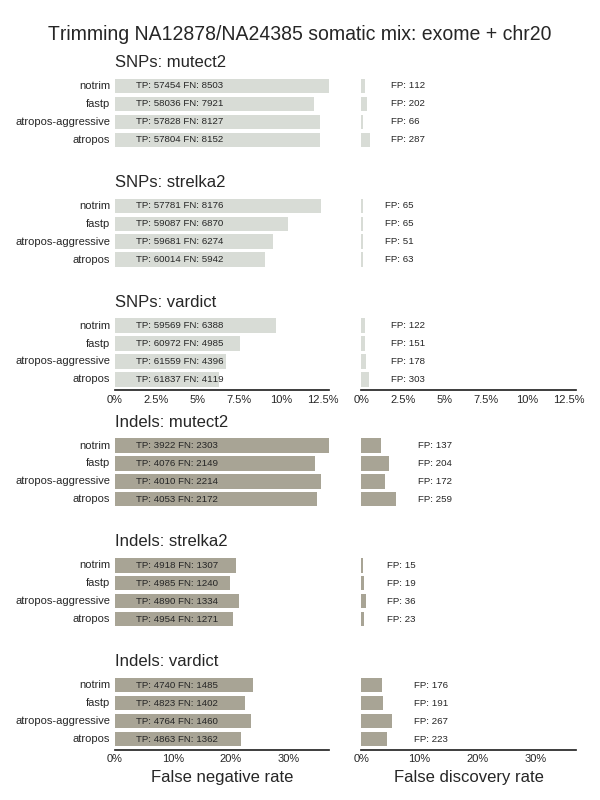
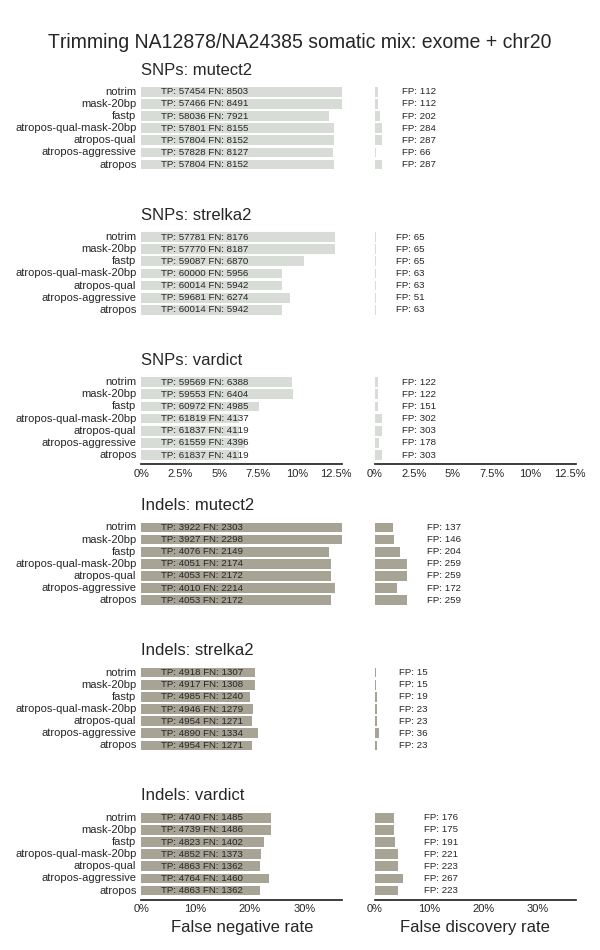
somatic trim: results for qual only and polyX mask
qual only trimming provides majority of speed and quality benefits

diff --git a/somatic_trim/README.md b/somatic_trim/README.md
@@ -8,37 +8,42 @@ of 30% NA12878 (tumor) and 70% NA24385 (germline) and a 30x normal genome of
 NA24385. Unique NA12878 variants are somatic variations at 15% and 30%.
 
 This sample has slow runtimes with many callers, potentially due to read quality
-issues. Inspired by [DNAnexus' work examining problematic reads with Readshift](https://blog.dnanexus.com/2018-01-16-evaluating-the-performance-of-ngs-pipelines-on-noisy-wgs-data/)
+issues. Inspired by [DNAnexus' work examining problematic reads with
+Readshift](https://blog.dnanexus.com/2018-01-16-evaluating-the-performance-of-ngs-pipelines-on-noisy-wgs-data/)
 we looked at the impact of 3' quality trimming on runtimes. We also added polyG
-trimming to avoid G errors at the end of NovaSeq reads, and polyX trimming to
-remove other low complexity regions that could contribute to slow alignment and
-variant calling times.
+trimming to avoid G errors at the end of NovaSeq reads in other datasets, and
+polyX trimming to remove other low complexity regions that could contribute to
+slow alignment and variant calling times.
 
-Two different trimming methods [atropos](https://github.com/jdidion/atropos)
-and [fastp](https://github.com/OpenGene/fastp) had different impacts on read
-calls and runtimes. Both callers helped improve sensitivity of SNP and indel
-detection.  However, atropos improved runtimes for both alignment and variant
+Two different trimming methods [atropos](https://github.com/jdidion/atropos) and
+[fastp](https://github.com/OpenGene/fastp) had different impacts on read calls
+and runtimes. Both callers helped improve sensitivity of SNP and indel
+detection. However, atropos improved runtimes for both alignment and variant
 calling, while fastp runtimes were about identical to untrimmed. To explore
 further, we examined more aggressive polyX tripping with fastp and less
 aggressive trimming with atropos. Runtime improvements were dependent on how
-aggressively we trimmed polyA tails. With the default settings, atropos is 
-quite aggressive and will trim the 3' end of any read with a polyA stretch of
-3 basepairs or more due to non-anchored 3' trimming and a
-[default overlap default of 3](https://atropos.readthedocs.io/en/latest/guide.html#reducing-random-matches).
+aggressively we trimmed polyA tails. With the default settings, atropos is quite
+aggressive and will trim the 3' end of any read with a polyA stretch of 3
+basepairs or more due to non-anchored 3' trimming and a [default overlap default
+of 3](https://atropos.readthedocs.io/en/latest/guide.html#reducing-random-matches).
 While this did not impact sensitivity/specificity in this validation set, it
 trims too much for low frequency detection where we have the potential to remove
 real variants and less datasets to ensure this doesn't happen.
 
+We also examined masking polyX regions in the genome rather, using
+polyX stretches of 20bp or more from the [RepeatMasker pre-flagged
+datasets](http://www.repeatmasker.org/genomicDatasets/RMGenomicDatasets.html).
+These datasets had identical validations to the untrimmed versions. Runtimes for
+MuTect2 and VarDict were not improved with only masking, but it greatly improved
+strelka2 runtimes over trimming. Using atropos quality trimmed only recover
+the validation and runtime improvements seen with atropos quality and 3'
+polyX trimming.
+
 This allowed us to identify the contributions different trimming components make
-to both validations and runtime. Adjusting aggressiveness in 3'
-quality trimming with fastp did not change variant calling runtimes, suggesting
-the runtime difference is due to polyX trimming. When examining the top 3' ends
-remaining after atropos and fastp trimming, the fastp ends primarily included
-polyA, polyT and polyC stretches. This indicates that our crude method of
-trimming these using adapter sequences is more effective with atropos, and that
-removing these stretches provides the greatest runtime improvements in this
-dataset. We provide runtime tradeoffs and trimming aggressiveness for the 3
-methods in part of an ongoing validation process.
+to both validations and runtime. Quality trimming has the primary impact on both
+runtime and validation changes, and polyX trimming and masking have minimal
+impact in this dataset. We provide runtime tradeoffs and trimming aggressiveness
+for the 3 methods in part of an ongoing validation process.
 
 Thanks to the [The University of Melbourne Centre for Cancer Research](
 http://mdhs.unimelb.edu.au/our-organisation/institutes-centres-departments/the-university-of-melbourne-centre-for-cancer-research) and [AstraZeneca Oncology](https://www.astrazeneca.com/our-focus-areas/oncology.html) 
@@ -47,7 +52,8 @@ for support in running these evaluations.
 ### Quality changes
 
 Both atropos and fastp improve sensitivity of detection, which appears to be due
-to removal of low quality bases at the 3' ends of reads:
+to removal of low quality bases at the 3' ends of reads. This is true with
+quality only trimming + masking of polyX genome regions:
 
 ![giab-mix-trim](giab-mix/grading-summary-gm1-trim.png)
 
@@ -55,10 +61,10 @@ to removal of low quality bases at the 3' ends of reads:
 
 #### minimap2 alignment
 
-Alignment runtimes for atropos trimming fastq files
+Alignment runtimes for full atropos trimmed fastq files
 are 75-80% of the original non-trimmed runs, while fastp are
-20:14-21:11
-the same: untrimmed (1:10), atropos (0:53), fastp (1:07)
+the same: untrimmed (1:10), atropos qual + polyX trim (0:53), atropos qual trim
+(0:56), fastp (1:07)
 
 #### Variant calling runtimes for the worst case region (chr20 full region)
 
@@ -66,17 +72,21 @@ atropos improves runtimes, especially for callers like MuTect2 that struggled
 with slow runs on this data. fastp has a smaller improvement in runtime.
 Aggressive trimming with atropos provides a baseline for potential improvements,
 but 3' trimming of anything with polyX stretches greater than 3bp was too
-excessive.
+excessive. Quality trimming only with atropos provides validation and runtime
+improvements equivalent to also including polyX trimming, so polyX does not
+offer large improvements in this dataset. Masking 20bp polyX regions, combined
+with quality trimming, provides additional runtime improvements for strelka2,
+but does not help with MuTect2 or VarDict:
 
-caller   | untrimmed | atropos | fastp | atropos aggressive |
---- | --- | --- | --- | --- |
-vardict  |  1:46 |  1:12 67% |  1:25 80% |  1:08 65% |
-mutect2  |  5:59 |  3:45 62% |  5:03 84% |  2:38 44% |
-strelka2 |  0:36 |  0:27 75% |  0:32 89% |  0:28 78% |
+caller   | untrimmed | atropos | fastp | atropos aggressive | mask 20bp | atropos qual + mask 20bp | atropos qual |
+--- | --- | --- | --- | --- | --- | --- | --- |
+vardict  |  1:46 |  1:12 67% |  1:25 80% |  1:08 65% | 1:36 90%  | 1:14 67% | 1:11 67% |
+mutect2  |  5:59 |  3:45 62% |  5:03 84% |  2:38 44% | 6:14 100% | 3:44 62% | 3:44 62% |
+strelka2 |  0:36 |  0:27 75% |  0:32 89% |  0:28 78% | 0:16 44%  | 0:11 31% | 0:27 75% |
 
 ### Trimming runtimes
 
-Runtimes to trim reads for a 24Gb input BAM file on a 
+Runtimes to trim reads for a 24Gb input BAM file on a
 16 core AWS machine with SSD storage:
 
 - atropos 1:26
@@ -84,14 +94,22 @@ Runtimes to trim reads for a 24Gb input BAM file on a
 
 ### Trimming differences
 
+Adjusting aggressiveness in 3' quality trimming with fastp did not change
+variant calling runtimes, suggesting the runtime difference is due to polyX
+trimming or that fastp has a different quality trimming algorithm missing
+removal of ends that atropos removes.
+
+When examining the top 3' ends remaining after atropos and fastp
+trimming, the fastp ends primarily included polyA, polyT and polyC stretches.
 The differences in runtime appear to be due to removal of polyA, polyT and polyC
 read ends during trimming. polyG stretches, which are often present in new
 NovaSeq data, get removed consistently by both callers. The aggressiveness of
 trimming 3' ends containing other polyA/T/C stretches determines runtime
 improvements by avoid extra computational work aligning and variant calling in
-these low complexity region. We're working with the fastp team to discuss 
+these low complexity region. We're working with the fastp team to discuss
 improved approaches to help remove these as part of the fastp trim so the two
 methods consistently trim reads.
+
 
 Top 15 remaining 3' ends for fastp trimming:
 
